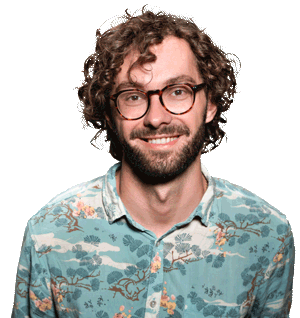
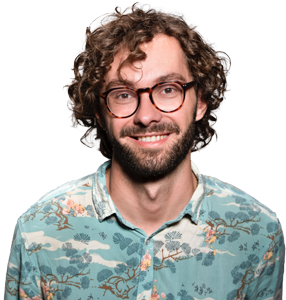
Add image of BIkers

diff --git a/app/javascript/components/Bikers/Biker/Biker.js b/app/javascript/components/Bikers/Biker/Biker.js
@@ -1,7 +1,6 @@
 import React from 'react'
 import Button from '../../UI/Button/Button';
 import classes from './Biker.module.scss';
-import dustingreen from '../../../../assets/images/Dustin-Green.png'
 
 
 const biker = (props) => {
@@ -9,7 +8,7 @@ const biker = (props) => {
         <div className={classes.RiderCard + " card mr-5 pb-4 bg-blur text-center"}>
             <div className="d-flex">
                 <div className={classes.ContainPicture}>
-                    <img src={dustingreen} />
+                    <img src={props.attributes.avatar} />
                 </div>
                 <div className="mx-auto">
                     <h3>{props.attributes.state}</h3>

diff --git a/db/seeds.rb b/db/seeds.rb
@@ -11,7 +11,7 @@ bikers = Biker.create([
         first_name:"Dustin",
         last_name:"Green",
         city:"Hickory Hills",
-        avatar:"",
+        avatar:"app/assets/images/Dustin-Green.png",
         state:"IL",
         latitude:"40.00",
         longitude:"-105.35"
@@ -20,7 +20,7 @@ bikers = Biker.create([
         first_name:"Jason",
         last_name:"Finn",
         city:"Huntington Beach",
-        avatar:"",
+        avatar:"app/assets/images/Dustin-Green.png",
         state:"CA",
         latitude:"39.95",
         longitude:"-105.24"
@@ -29,7 +29,7 @@ bikers = Biker.create([
         first_name:"Howard",
         last_name:"Thompson",
         city:"Hale",
-        avatar:"",
+        avatar:"app/assets/images/Dustin-Green.png",
         state:"MO",
         latitude:"40.06",
         longitude:"-105.26"
@@ -38,7 +38,7 @@ bikers = Biker.create([
         first_name:"Maggie",
         last_name:"Lantz",
         city:"Dublin",
-        avatar:"",
+        avatar:"app/assets/images/Dustin-Green.png",
         state:"OH",
         latitude:"40.03",
         longitude:"-105.23"
@@ -47,7 +47,7 @@ bikers = Biker.create([
         first_name:"Lawrence",
         last_name:"Duran",
         city:"Fort Myers",
-        avatar:"",
+        avatar:"app/assets/images/Dustin-Green.png",
         state:"FL",
         latitude:"40.04",
         longitude:"-105.23"
@@ -56,7 +56,7 @@ bikers = Biker.create([
         first_name:"Irene",
         last_name:"Molina",
         city:"Tucson",
-        avatar:"",
+        avatar:"app/assets/images/Dustin-Green.png",
         state:"AZ",
         latitude:"39.96",
         longitude:"-105.22"
@@ -65,7 +65,7 @@ bikers = Biker.create([
         first_name:"Nancy",
         last_name:"Garner",
         city:"Baltimore",
-        avatar:"",
+        avatar:"app/assets/images/Dustin-Green.png",
         state:"MD",
         latitude:"39.98",
         longitude:"-105.21"
@@ -74,7 +74,7 @@ bikers = Biker.create([
         first_name:"Tara",
         last_name:"Taylor",
         city:"Minneapolis",
-        avatar:"",
+        avatar:"app/assets/images/Dustin-Green.png",
         state:"MN",
         latitude:" 40.00",
         longitude:"-105.25"
@@ -83,7 +83,7 @@ bikers = Biker.create([
         first_name:"Alejandro",
         last_name:"Smith",
         city:"Scarborough",
-        avatar:"",
+        avatar:"app/assets/images/Dustin-Green.png",
         state:"ME",
         latitude:"40.02",
         longitude:"-105.26"
@@ -92,7 +92,7 @@ bikers = Biker.create([
         first_name:"Tricia",
         last_name:"Renshaw",
         city:"Mystic",
-        avatar:"",
+        avatar:"app/assets/images/Dustin-Green.png",
         state:"CT",
         latitude:"40.02",
         longitude:"-105.30"
@@ -101,7 +101,7 @@ bikers = Biker.create([
         first_name:"Travis",
         last_name:"Cook",
         city:"Twin Lakes",
-        avatar:"",
+        avatar:"app/assets/images/Dustin-Green.png",
         state:"WI",
         latitude:"40.01",
         longitude:"-105.20"
@@ -110,7 +110,7 @@ bikers = Biker.create([
         first_name:"Joan",
         last_name:"Brooks",
         city:"Norfolk",
-        avatar:"",
+        avatar:"app/assets/images/Dustin-Green.png",
         state:"VA",
         latitude:"39.98",
         longitude:" -105.24"
@@ -119,7 +119,7 @@ bikers = Biker.create([
         first_name:"Joseph",
         last_name:"Rodgers",
         city:"Wayne",
-        avatar:"",
+        avatar:"app/assets/images/Dustin-Green.png",
         state:"NJ",
         latitude:" 39.99",
         longitude:"-105.25"
@@ -128,7 +128,7 @@ bikers = Biker.create([
         first_name:"Matthew",
         last_name:"Gregson",
         city:"Brashear",
-        avatar:"",
+        avatar:"app/assets/images/Dustin-Green.png",
         state:"MO",
         latitude:" 40.01",
         longitude:" -105.29"
@@ -137,7 +137,7 @@ bikers = Biker.create([
         first_name:"Katie",
         last_name:"Dunlap",
         city:"Marion",
-        avatar:"",
+        avatar:"app/assets/images/Dustin-Green.png",
         state:"VA",
         latitude:"39.97",
         longitude:"-105.27"
@@ -146,7 +146,7 @@ bikers = Biker.create([
         first_name:"Leo",
         last_name:"Howard",
         city:"Dallas",
-        avatar:"",
+        avatar:"app/assets/images/Dustin-Green.png",
         state:"TX",
         latitude:"39.97",
         longitude:"-105.33"
@@ -155,7 +155,7 @@ bikers = Biker.create([
         first_name:"Maria",
         last_name:"Baisden",
         city:"Raleigh",
-        avatar:"",
+        avatar:"app/assets/images/Dustin-Green.png",
         state:"NC",
         latitude:"40.00",
         longitude:"-105.29"
@@ -164,7 +164,7 @@ bikers = Biker.create([
         first_name:"Sandy",
         last_name:"Townsend",
         city:"Newport",
-        avatar:"",
+        avatar:"app/assets/images/Dustin-Green.png",
         state:"PA",
         latitude:"40.05",
         longitude:" -105.30"
@@ -173,7 +173,7 @@ bikers = Biker.create([
         first_name:"Melinda",
         last_name:"Stephenson",
         city:"Kahului",
-        avatar:"",
+        avatar:"app/assets/images/Dustin-Green.png",
         state:"HI",
         latitude:"39.99",
         longitude:" -105.31"
@@ -182,7 +182,7 @@ bikers = Biker.create([
         first_name:"Jason",
         last_name:"Nichols",
         city:"Alexandria",
-        avatar:"",
+        avatar:"app/assets/images/Dustin-Green.png",
         state:"VA",
         latitude:"40.01",
         longitude:" -105.32"
